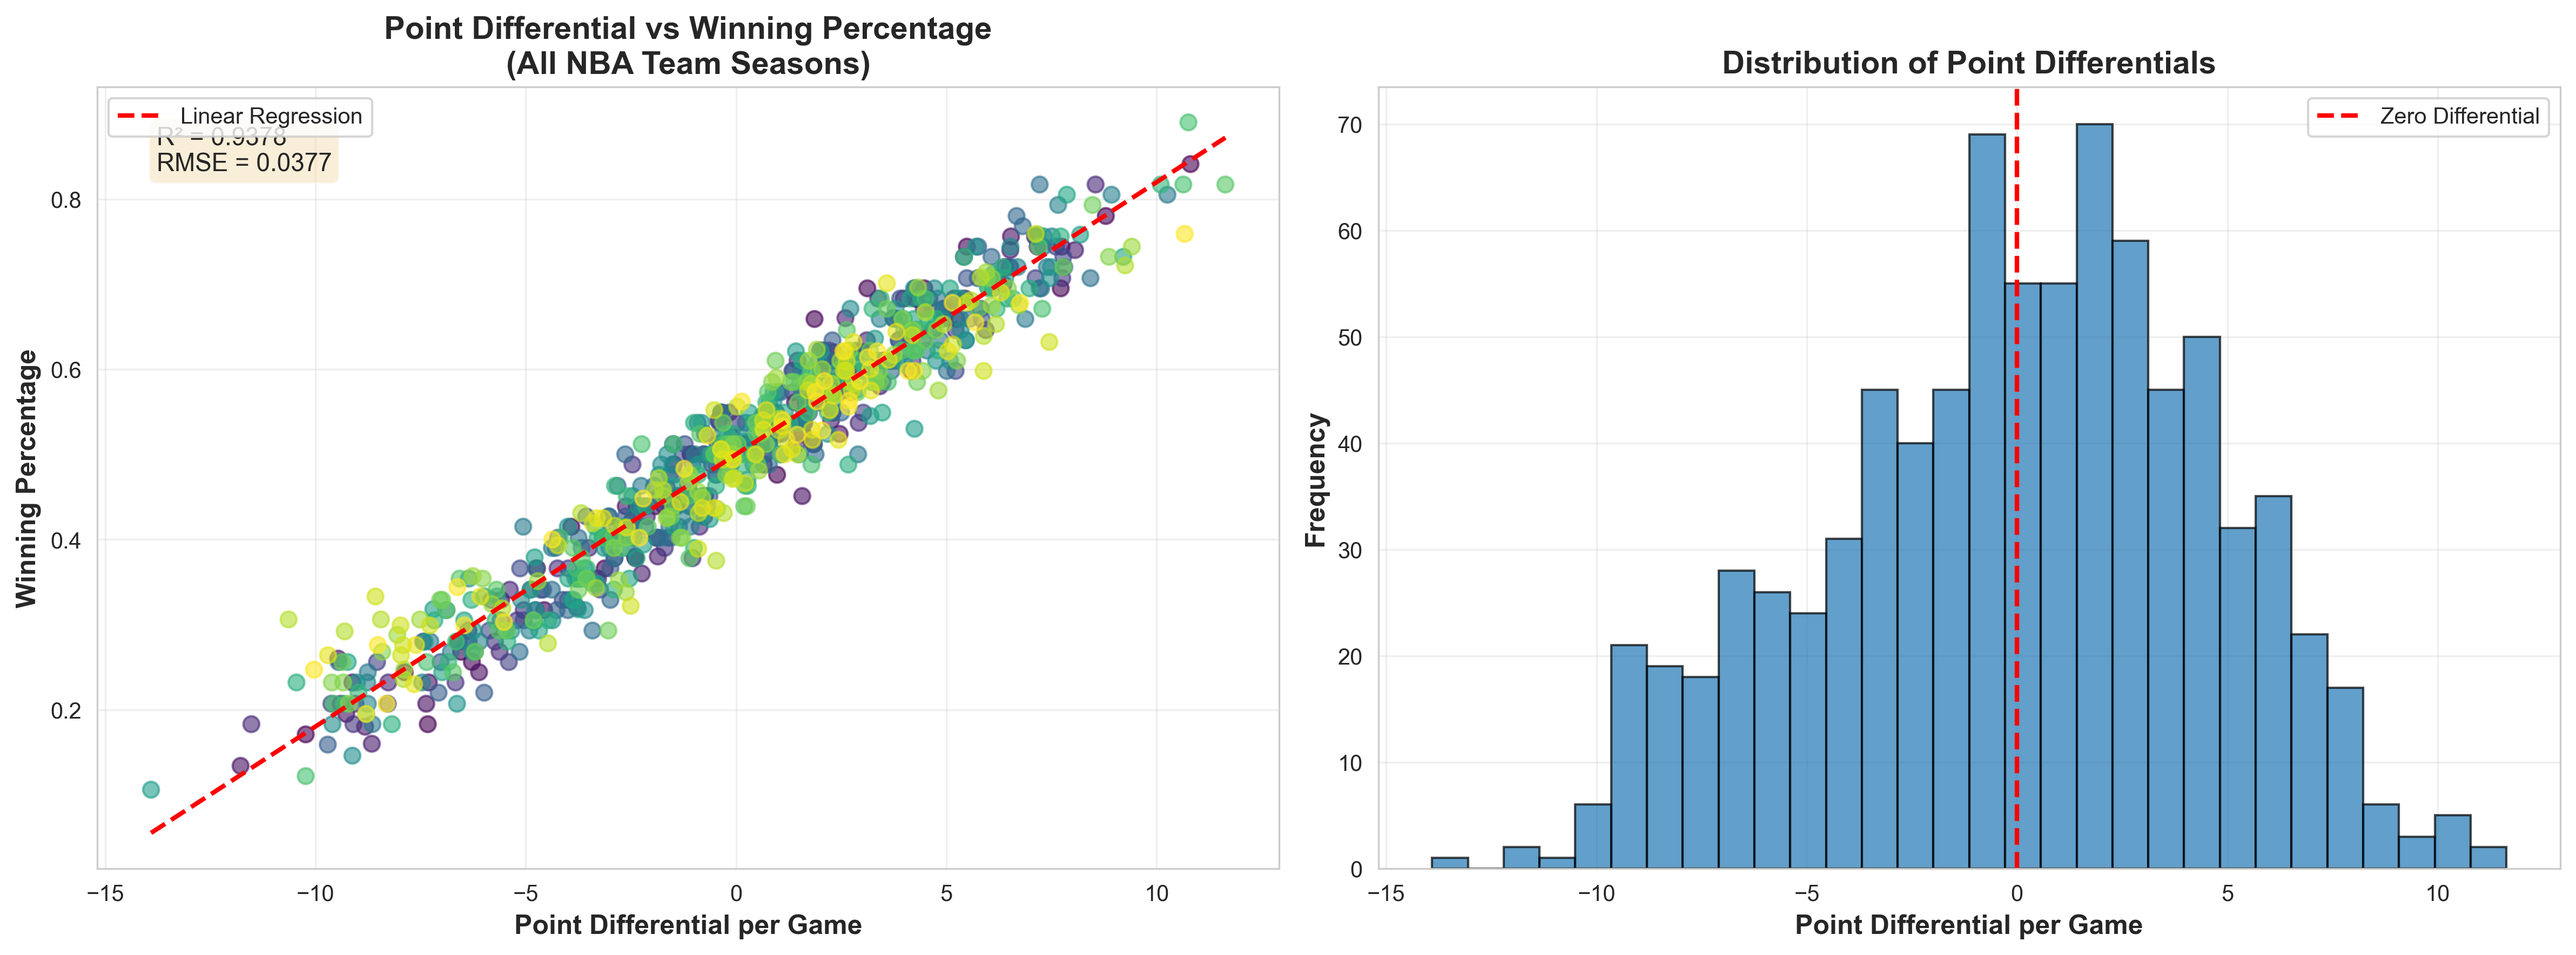
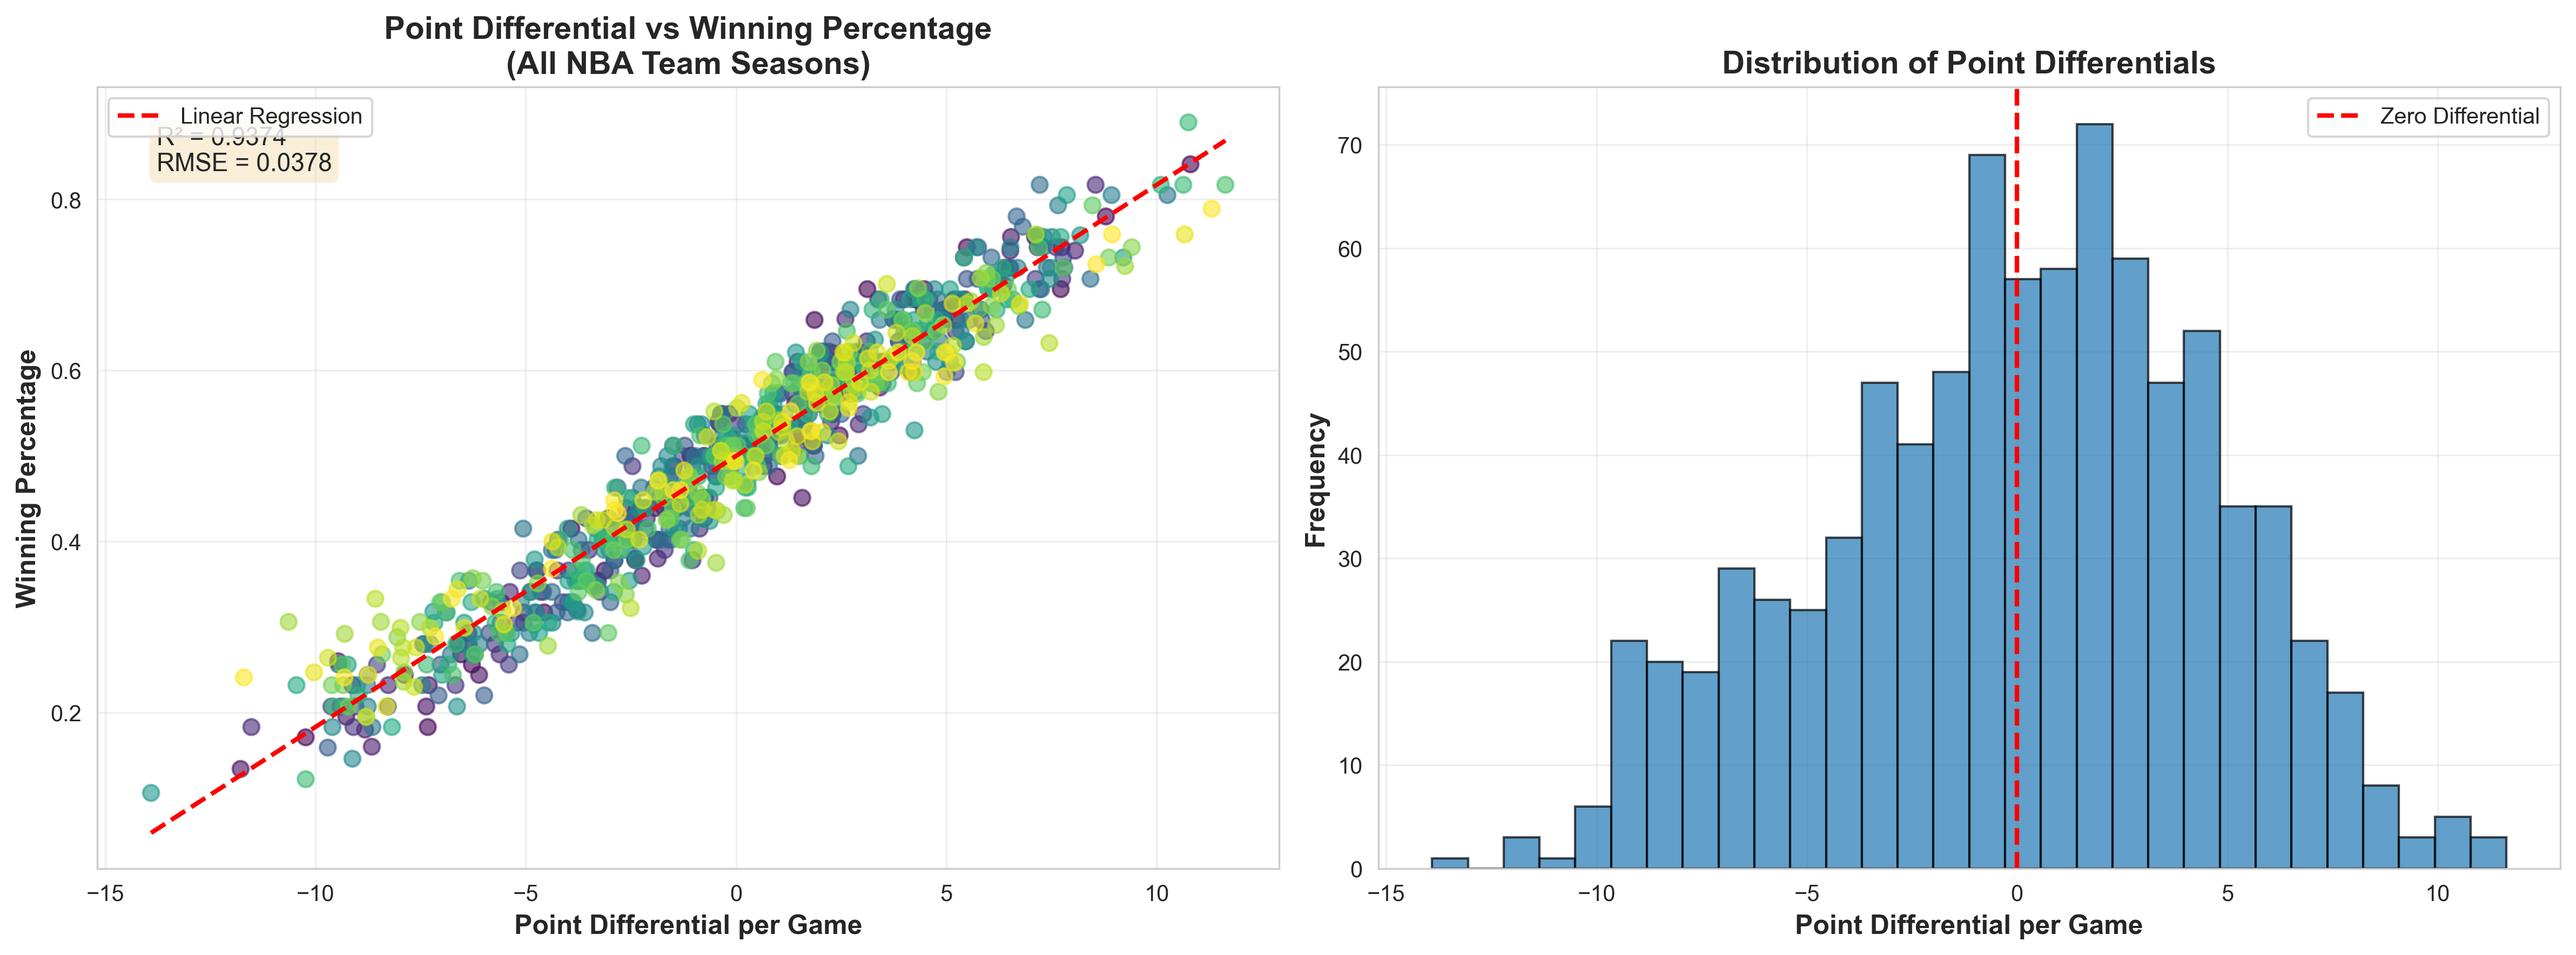
Fix NBA data fetching: filter by team ID range, fix Streamlit indentation
- Updated pd_wp_analysis.py to fetch 1996-2025 (API doesn't have data before 1996)
- Added NBA team ID filter (1610612700-1610612799) to exclude G-League/WNBA teams
- Fixed indentation error in streamlit_app.py
- Data: 832 team-seasons, 28 seasons, R²=93.78%, 2.62 wins/point diff

diff --git a/nba_analysis/pd_wp_analysis.py b/nba_analysis/pd_wp_analysis.py
@@ -10,7 +10,7 @@ import seaborn as sns
 from sklearn.linear_model import LinearRegression
 from sklearn.metrics import r2_score, mean_squared_error
 from nba_api.stats.endpoints import leaguegamefinder, leaguedashteamstats
-from nba_api.stats.static import teams
+# Note: teams.get_teams() only returns current team IDs, which excludes historical teams
 import time
 from typing import Tuple, Dict, List
 import warnings
@@ -34,15 +34,12 @@ def fetch_team_season_data(seasons: List[str] = None, num_seasons: int = 30) -> 
     Returns:
         DataFrame with team season statistics (NBA teams only)
     """
-    # Get NBA team IDs to filter results
-    nba_teams = teams.get_teams()
-    nba_team_ids = set([team['id'] for team in nba_teams])
-    
     if seasons is None:
-        # Default to last 30 seasons (1994-95 to 2023-24)
-        # NBA API has reliable data back to ~1980, but 30 seasons gives ~900 data points
-        current_year = 2024
-        seasons = [f"{year}-{str(year+1)[-2:]}" for year in range(current_year-num_seasons, current_year)]
+        # Start from 1996-97 (earliest reliable data in NBA API for this endpoint)
+        # to 2024-25 current season
+        start_year = 1996
+        end_year = 2025
+        seasons = [f"{year}-{str(year+1)[-2:]}" for year in range(start_year, end_year)]
     
     all_data = []
     
@@ -61,8 +58,10 @@ def fetch_team_season_data(seasons: List[str] = None, num_seasons: int = 30) -> 
             
             df = team_stats.get_data_frames()[0]
             
-            # Filter to only NBA teams
-            df = df[df['TEAM_ID'].isin(nba_team_ids)].copy()
+            # Filter to NBA teams only using team ID range
+            # NBA team IDs are in the 1610612700-1610612799 range
+            # This excludes G-League (12XX), WNBA (161161XXXX), and other leagues
+            df = df[df['TEAM_ID'].between(1610612700, 1610612799)].copy()
             
             # Filter out teams with too few games (likely data errors or partial seasons)
             # Require at least 20 games (to handle lockout seasons like 2011-12, 1998-99)
@@ -73,7 +72,7 @@ def fetch_team_season_data(seasons: List[str] = None, num_seasons: int = 30) -> 
                 all_data.append(df)
                 print(f"✓ ({len(df)} NBA teams)")
             else:
-                print(f"⚠ ({len(df)} NBA teams after filtering)")
+                print(f"⚠ (no data or incomplete season)")
             
             # Rate limiting to avoid API throttling
             time.sleep(0.6)
@@ -350,14 +349,13 @@ def main():
     print("NBA POINT DIFFERENTIAL vs WINNING PERCENTAGE ANALYSIS")
     print("="*60 + "\n")
     
-    # Fetch data - using 30 seasons for better statistical power
-    # You can adjust this: more seasons = more data = better model
-    # NBA API has data back to ~1980, so you can go up to ~45 seasons if desired
-    # Example: df = fetch_team_season_data(num_seasons=40) for 40 seasons
+    # Fetch data - using all available seasons (1996-2025) for maximum statistical power
+    # This gives us ~850+ team-seasons for robust analysis
     print("Step 1: Fetching NBA season data...")
-    print("Note: Fetching 30 seasons for robust analysis (~900 team-seasons)")
-    print("      Adjust num_seasons parameter to fetch more historical data")
-    df = fetch_team_season_data(num_seasons=30)
+    print("Note: Fetching seasons from 1996-2025 (~850+ team-seasons)")
+    print("      NBA API doesn't have reliable data before 1996-97 for this endpoint")
+    print("      This may take several minutes due to API rate limiting...")
+    df = fetch_team_season_data()
     
     # Calculate metrics
     print("\nStep 2: Calculating metrics...")
